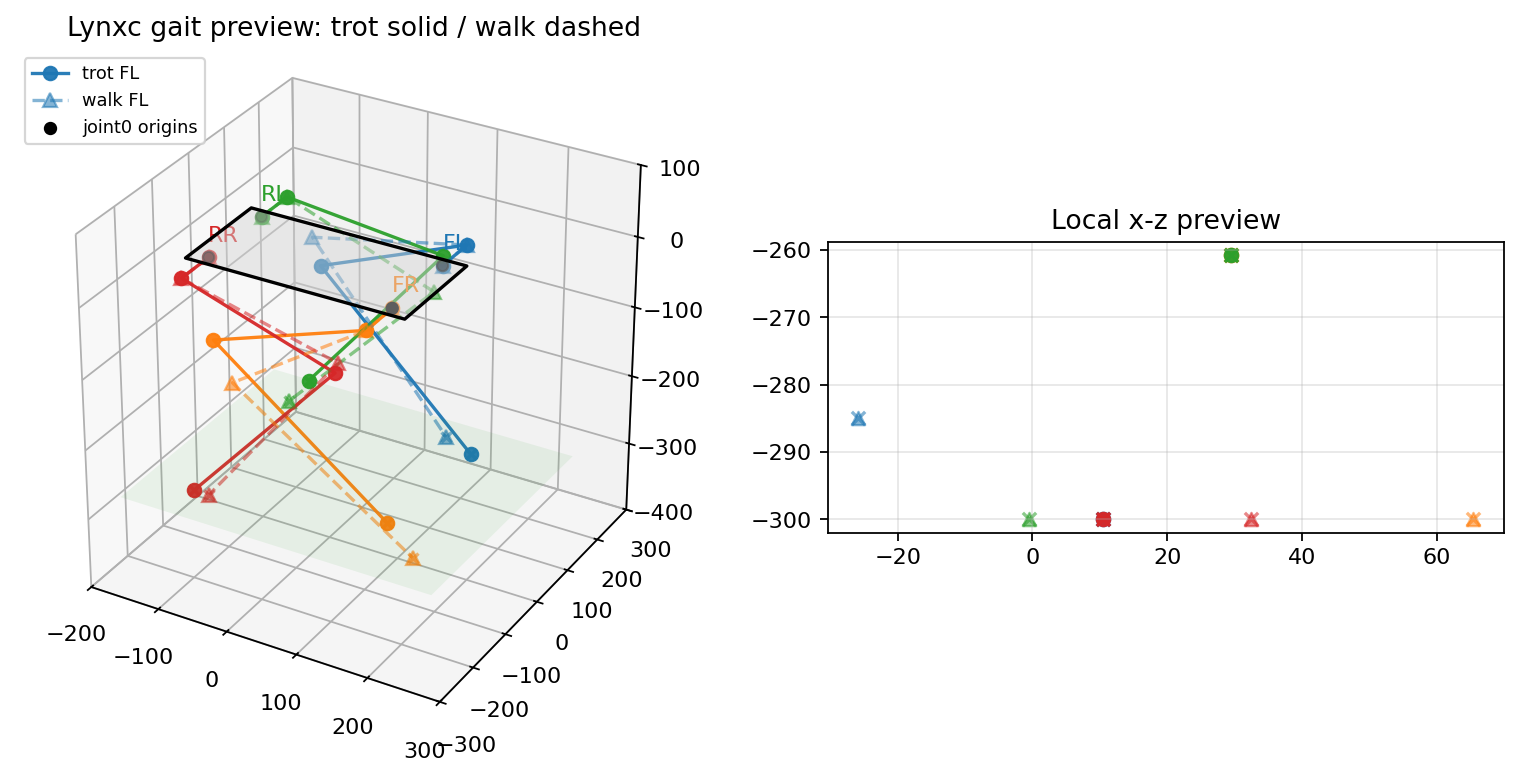
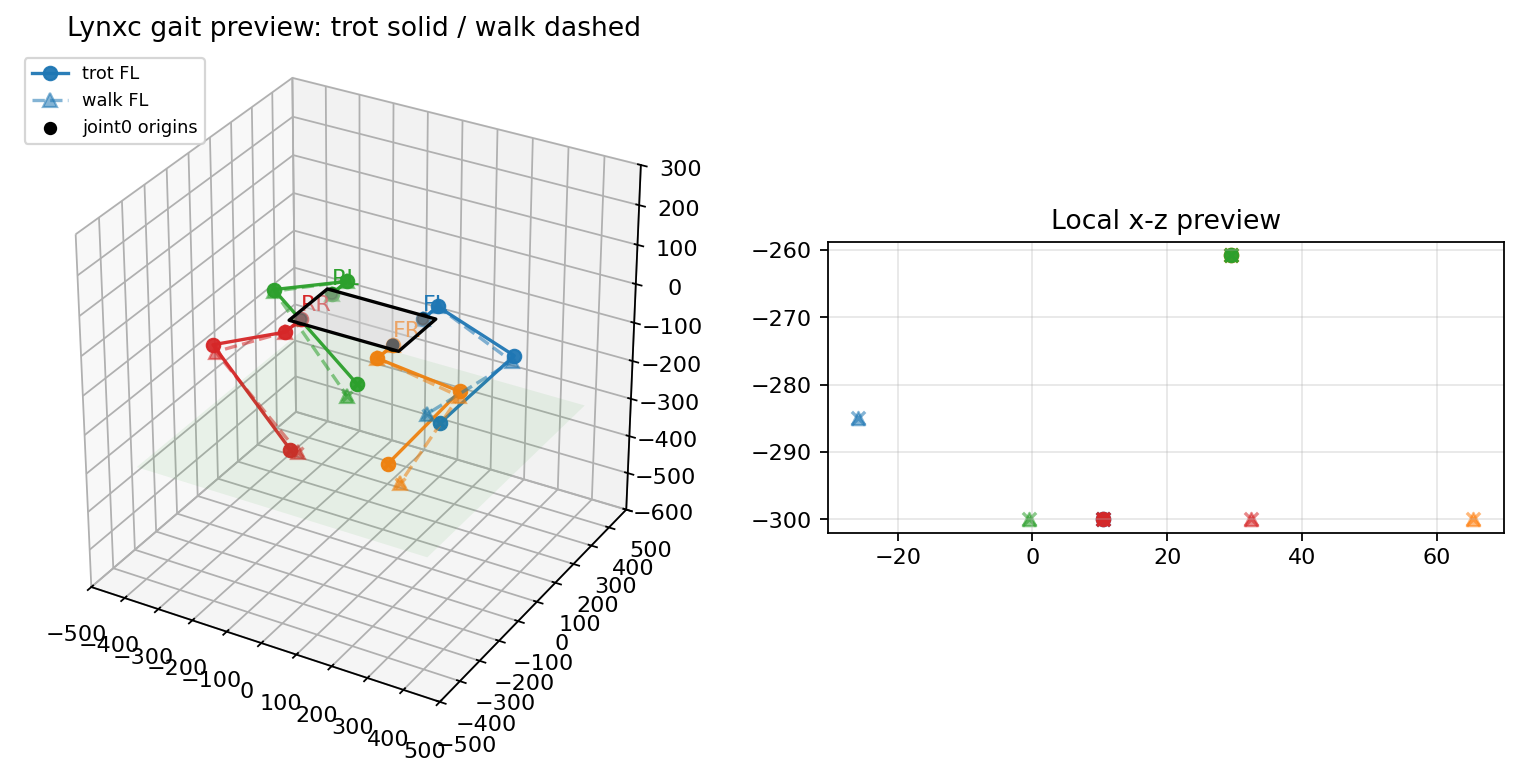
zero_agent done

diff --git a/tasks/mdp/ik_lynxc_quadruped_test.py b/tasks/mdp/ik_lynxc_quadruped_test.py
@@ -243,7 +243,7 @@ class LynxcGaitPlannerAdapter:
             leg_order=tuple(leg_names),
             side_signs=leg_side_signs,
             phase_offsets=leg_phase_offsets,
-            knee_direction_signs=[-1.0 if name.upper().startswith("F") else 1.0 for name in leg_names],
+            knee_direction_signs=[1.0 if name.upper().startswith("F") else -1.0 for name in leg_names],
             gait_type=cfg.gait_type,
             device=self.device,
             dtype=torch.float64,
@@ -386,7 +386,7 @@ def resolve_default_standing_pose_deg() -> tuple[float, float, float]:
         leg_order=LEG_ORDER,
         side_signs=side_signs,
         phase_offsets=[0.0, math.pi, math.pi, 0.0],
-        knee_direction_signs=(-1.0, -1.0, 1.0, 1.0),
+        knee_direction_signs=(1.0, 1.0, -1.0, -1.0),
         device="cpu",
         dtype=torch.float64,
     )
@@ -871,7 +871,7 @@ def run_animation() -> None:
         for gait_type, frame in frames.items():
             phase_summary = []
             knee_x = frame["fk_local_m"][:, 2, 0]
-            inner_knee_ok = bool((knee_x[:2] < 0.0).all() and (knee_x[2:] > 0.0).all())
+            inner_knee_ok = bool((knee_x[:2] > 0.0).all() and (knee_x[2:] < 0.0).all())
             for leg_idx, leg_name in enumerate(LEG_ORDER):
                 key = (gait_type, leg_name)
                 leg_points_world_mm = frame["fk_world_m"][leg_idx] * MM_PER_M

diff --git a/tasks/mdp/lynx_gait_generator.py b/tasks/mdp/lynx_gait_generator.py
@@ -160,14 +160,14 @@ class LynxGaitGenerator:
         ))
         gamma = torch.atan2(h, x)
 
-        # Match ik_lynxc_quadruped_test.py inner-knee mode: front knees
-        # point toward -X and rear knees point toward +X in each hip frame.
+        # The imported Lynx articulation reverses the apparent front/rear knee
+        # branches, so use +X for front knees and -X for rear knees.
         knee_backward = self._planner_targets(theta1, gamma - alpha, math.pi - beta)
         knee_forward = self._planner_targets(theta1, gamma + alpha, beta - math.pi)
         is_front = torch.tensor(
             [name.startswith("F") for name in self.leg_order], device=foot_targets.device, dtype=torch.bool
         )
-        planner_targets = torch.where(is_front.unsqueeze(-1), knee_backward, knee_forward)
+        planner_targets = torch.where(is_front.unsqueeze(-1), knee_forward, knee_backward)
         return planner_targets, valid
 
     def planner_to_joint(self, planner_targets: torch.Tensor) -> torch.Tensor:

diff --git a/tasks/lynx_flat_task.py b/tasks/lynx_flat_task.py
@@ -93,8 +93,8 @@ class ActionsCfg:
         l_femur=LYNX_L_FEMUR_M,
         l_tibia=LYNX_L_TIBIA_M,
         joint_names=[".*"],
-        step_height=0.030,
-        step_length=0.020,
+        step_height=0.040,
+        step_length=0.100,
         step_frequency=2.5,
         step_direction=1.0,
         gait_type="walk",
@@ -115,7 +115,7 @@ class ActionsCfg:
         step_frequency_residual_scale=0.2,
         turn_rate_residual_scale=0.1,
         debug_print_enabled=False,
-        lock_base_in_air=True,
+        lock_base_in_air=False,
         lock_base_height=DESIRED_BASE_HEIGHT_M,
         startup_standing_blend_duration_s=0.35,
         center_x=0.020,

diff --git a/tests/test_lynx_gait_generator.py b/tests/test_lynx_gait_generator.py
@@ -25,8 +25,8 @@ def test_standing_ik_matches_inner_knee_geometry() -> None:
 
     assert bool(valid.all())
     torch.testing.assert_close(links[:, -1], feet, atol=1.0e-8, rtol=1.0e-8)
-    assert bool((links[:2, 2, 0] < 0.0).all())  # front knees point backward
-    assert bool((links[2:, 2, 0] > 0.0).all())  # rear knees point forward
+    assert bool((links[:2, 2, 0] > 0.0).all())  # front knees point forward
+    assert bool((links[2:, 2, 0] < 0.0).all())  # rear knees point backward
 
 
 def test_zero_pose_matches_lynxc_link_directions() -> None:

diff --git a/tasks/mdp/lynx_gait_action.py b/tasks/mdp/lynx_gait_action.py
@@ -322,7 +322,7 @@ class LynxGaitActionCfg(ActionTermCfg):
     center_x: float = 0.020
     ground_z: float = -0.300
     step_height: float = 0.030
-    step_length: float = 0.020
+    step_length: float = 0.050
     step_frequency: float = 2.5
     step_direction: float = 1.0
     stand_when_command_zero: bool = True
